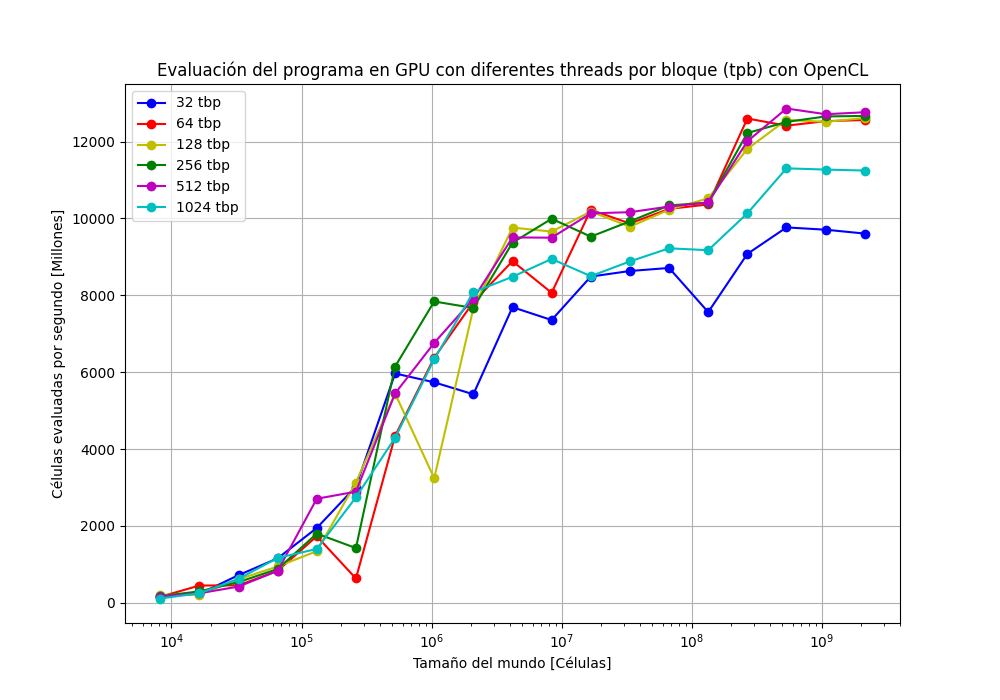
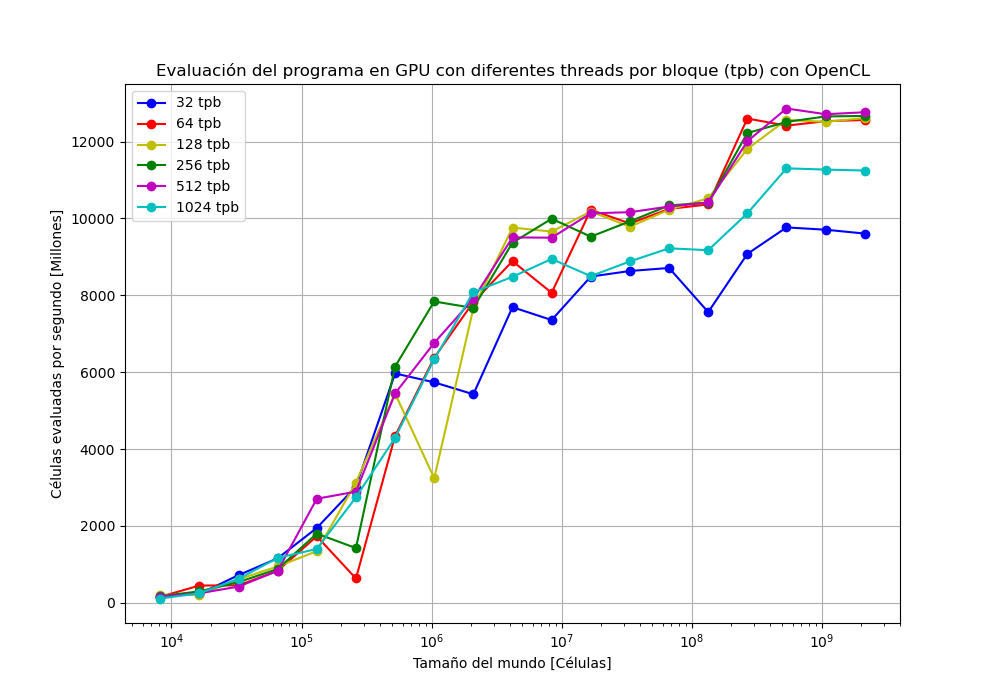
imagenes

diff --git a/GraphsGenerator/CUDA_non32tpb.py b/GraphsGenerator/CUDA_non32tpb.py
@@ -1,0 +1,177 @@
+"""Grafico con la comparacion de diferentes tpb usando la implementacion con CUDA"""
+
+import matplotlib.pyplot as plt
+import numpy as np
+import csv
+
+path = "Data/"
+
+if __name__ == "__main__":
+    size = []
+    time32 = []
+    time64 = []
+    time128 = []
+    time256 = []
+    time512 = []
+    time1024 = []
+
+    size3 = []
+    time9 = []
+    time27 = []
+    time81 = []
+    time243 = []
+    time729 = []
+
+    with open(path + 'cuda_32tpb.csv', mode='r') as csv_file:
+        csv_reader = csv.DictReader(csv_file)
+        line_count = 0
+        for row in csv_reader:
+            size += [ int(row['width']) * int(row['height']) ]
+            tmp_time = float(row['time']) * 0.001
+            time32 += [tmp_time / float(row['iter']) ]
+            print(size[-1], time32[-1])
+
+    with open(path + 'cuda_64tpb.csv', mode='r') as csv_file:
+        csv_reader = csv.DictReader(csv_file)
+        line_count = 0
+        for row in csv_reader:
+            tmp_size = int(row['width']) * int(row['height']) 
+            tmp_time = float(row['time']) * 0.001
+            time64 += [tmp_time / float(row['iter']) ]
+            print(tmp_size, time64[-1])
+
+    with open(path + 'cuda_128tpb.csv', mode='r') as csv_file:
+        csv_reader = csv.DictReader(csv_file)
+        line_count = 0
+        for row in csv_reader:
+            tmp_size = int(row['width']) * int(row['height']) 
+            tmp_time = float(row['time']) * 0.001
+            time128 += [tmp_time / float(row['iter']) ]
+            print(tmp_size, time128[-1])
+
+    with open(path + 'cuda_256tpb.csv', mode='r') as csv_file:
+        csv_reader = csv.DictReader(csv_file)
+        line_count = 0
+        for row in csv_reader:
+            tmp_size = int(row['width']) * int(row['height']) 
+            tmp_time = float(row['time']) * 0.001
+            time256 += [tmp_time / float(row['iter']) ]
+            print(tmp_size, time256[-1])
+
+    with open(path + 'cuda_512tpb.csv', mode='r') as csv_file:
+        csv_reader = csv.DictReader(csv_file)
+        line_count = 0
+        for row in csv_reader:
+            tmp_size = int(row['width']) * int(row['height']) 
+            tmp_time = float(row['time']) * 0.001
+            time512 += [tmp_time / float(row['iter']) ]
+            print(tmp_size, time512[-1])
+
+    with open(path + 'cuda_1024tpb.csv', mode='r') as csv_file:
+        csv_reader = csv.DictReader(csv_file)
+        line_count = 0
+        for row in csv_reader:
+            tmp_size = int(row['width']) * int(row['height']) 
+            tmp_time = float(row['time']) * 0.001
+            time1024 += [tmp_time / float(row['iter']) ]
+            print(tmp_size, time1024[-1])
+
+    # Valores potencias de 3
+
+    with open(path + 'cuda_9tpb.csv', mode='r') as csv_file:
+        csv_reader = csv.DictReader(csv_file)
+        line_count = 0
+        for row in csv_reader:
+            size3 += [ int(row['width']) * int(row['height']) ]
+            tmp_time = float(row['time']) * 0.001
+            time9 += [tmp_time / float(row['iter']) ]
+            print(size3[-1], time9[-1])
+
+    with open(path + 'cuda_27tpb.csv', mode='r') as csv_file:
+        csv_reader = csv.DictReader(csv_file)
+        line_count = 0
+        for row in csv_reader:
+            tmp_size = int(row['width']) * int(row['height']) 
+            tmp_time = float(row['time']) * 0.001
+            time27 += [tmp_time / float(row['iter']) ]
+            print(tmp_size, time27[-1])
+
+    with open(path + 'cuda_81tpb.csv', mode='r') as csv_file:
+        csv_reader = csv.DictReader(csv_file)
+        line_count = 0
+        for row in csv_reader:
+            tmp_size = int(row['width']) * int(row['height']) 
+            tmp_time = float(row['time']) * 0.001
+            time81 += [tmp_time / float(row['iter']) ]
+            print(tmp_size, time81[-1])
+
+    with open(path + 'cuda_243tpb.csv', mode='r') as csv_file:
+        csv_reader = csv.DictReader(csv_file)
+        line_count = 0
+        for row in csv_reader:
+            tmp_size = int(row['width']) * int(row['height']) 
+            tmp_time = float(row['time']) * 0.001
+            time243 += [tmp_time / float(row['iter']) ]
+            print(tmp_size, time243[-1])
+
+    with open(path + 'cuda_729tpb.csv', mode='r') as csv_file:
+        csv_reader = csv.DictReader(csv_file)
+        line_count = 0
+        for row in csv_reader:
+            tmp_size = int(row['width']) * int(row['height']) 
+            tmp_time = float(row['time']) * 0.001
+            time729 += [tmp_time / float(row['iter']) ]
+            print(tmp_size, time729[-1])
+
+    n_size = np.array(size)
+    n_time32 = np.array(time32) 
+    n_time64 = np.array(time64) 
+    n_time128 = np.array(time128) 
+    n_time256 = np.array(time256) 
+    n_time512 = np.array(time512)  
+    n_time1024 = np.array(time1024)  
+
+    n_size3 = np.array(size3)
+    n_time9 = np.array(time9) 
+    n_time27 = np.array(time27) 
+    n_time81 = np.array(time81) 
+    n_time243 = np.array(time243) 
+    n_time729 = np.array(time729)
+
+    n_eval32 = n_size / n_time32 / 1000000
+    n_eval64 = n_size / n_time64 / 1000000
+    n_eval128 = n_size / n_time128 / 1000000
+    n_eval256 = n_size / n_time256 / 1000000
+    n_eval512 = n_size / n_time512 / 1000000
+    n_eval1024 = n_size / n_time1024 / 1000000
+
+    n_eval9 = n_size3 / n_time9 / 1000000
+    n_eval27 = n_size3 / n_time27 / 1000000
+    n_eval81 = n_size3 / n_time81 / 1000000
+    n_eval243 = n_size3 / n_time243 / 1000000
+    n_eval729 = n_size3 / n_time729 / 1000000
+
+    fig, ax = plt.subplots(figsize=(10,7))
+    
+    ax.set_xscale('log')
+
+    line32 = ax.plot(n_size, n_eval32, color='#fabed4', marker='^', label='32 tpb')
+    line64 = ax.plot(n_size, n_eval64, color='#ffd8b1', marker='^', label='64 tpb')
+    line128 = ax.plot(n_size, n_eval128, color='#a9a9a9', marker='^', label='128 tpb')
+    line256 = ax.plot(n_size, n_eval256, color='#aaffc3', marker='^', label='256 tpb')
+    line512 = ax.plot(n_size, n_eval512, color='#dcbeff', marker='^', label='512 tpb')
+    line1024 = ax.plot(n_size, n_eval1024, color='#ffe119',marker='^', label='1024 tpb')
+
+    line9 = ax.plot(n_size3, n_eval9, color='#f032e6', marker='o', label='9 tpb')
+    line27 = ax.plot(n_size3, n_eval27, color='#469990', marker='o', label='27 tpb')
+    line81 = ax.plot(n_size3, n_eval81, color='#000075', marker='o', label='81 tpb')
+    line243 = ax.plot(n_size3, n_eval243, color='#9A6324', marker='o', label='243 tpb')
+    line729 = ax.plot(n_size3, n_eval729, color='#e6194B', marker='o', label='729 tpb')
+
+    ax.set(xlabel='Tamaño del mundo [Células]', ylabel='Células evaluadas por segundo [Millones]',
+       title='Evaluación del programa en GPU con diferentes threads por bloque (tpb) con CUDA')
+    ax.grid()
+
+    ax.legend()
+    fig.savefig("images/CUDA_non32tpb.png")
+    plt.show()

diff --git a/GraphsGenerator/OpenCL_tpb.py b/GraphsGenerator/OpenCL_tpb.py
@@ -88,12 +88,12 @@ if __name__ == "__main__":
     
     ax.set_xscale('log')
 
-    line32 = ax.plot(n_size, n_eval32, 'b-o', label='32 tbp')
-    line64 = ax.plot(n_size, n_eval64, 'r-o', label='64 tbp')
-    line128 = ax.plot(n_size, n_eval128, 'y-o', label='128 tbp')
-    line256 = ax.plot(n_size, n_eval256, 'g-o', label='256 tbp')
-    line512 = ax.plot(n_size, n_eval512, 'm-o', label='512 tbp')
-    line1024 = ax.plot(n_size, n_eval1024, 'c-o', label='1024 tbp')
+    line32 = ax.plot(n_size, n_eval32, 'b-o', label='32 tpb')
+    line64 = ax.plot(n_size, n_eval64, 'r-o', label='64 tpb')
+    line128 = ax.plot(n_size, n_eval128, 'y-o', label='128 tpb')
+    line256 = ax.plot(n_size, n_eval256, 'g-o', label='256 tpb')
+    line512 = ax.plot(n_size, n_eval512, 'm-o', label='512 tpb')
+    line1024 = ax.plot(n_size, n_eval1024, 'c-o', label='1024 tpb')
 
     ax.set(xlabel='Tamaño del mundo [Células]', ylabel='Células evaluadas por segundo [Millones]',
        title='Evaluación del programa en GPU con diferentes threads por bloque (tpb) con OpenCL')
